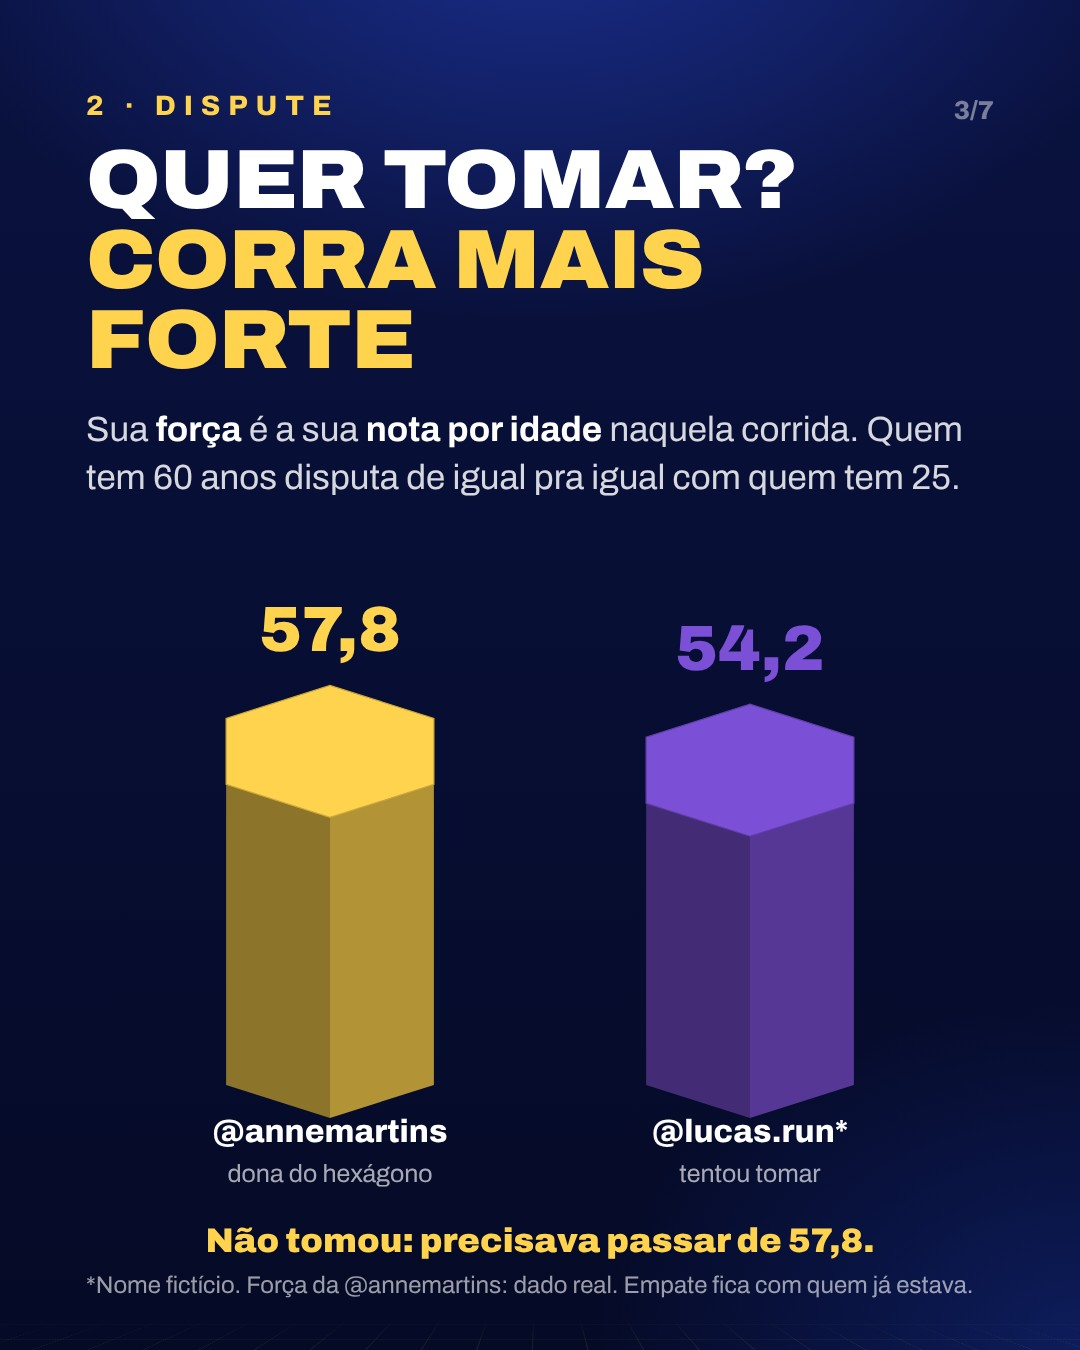
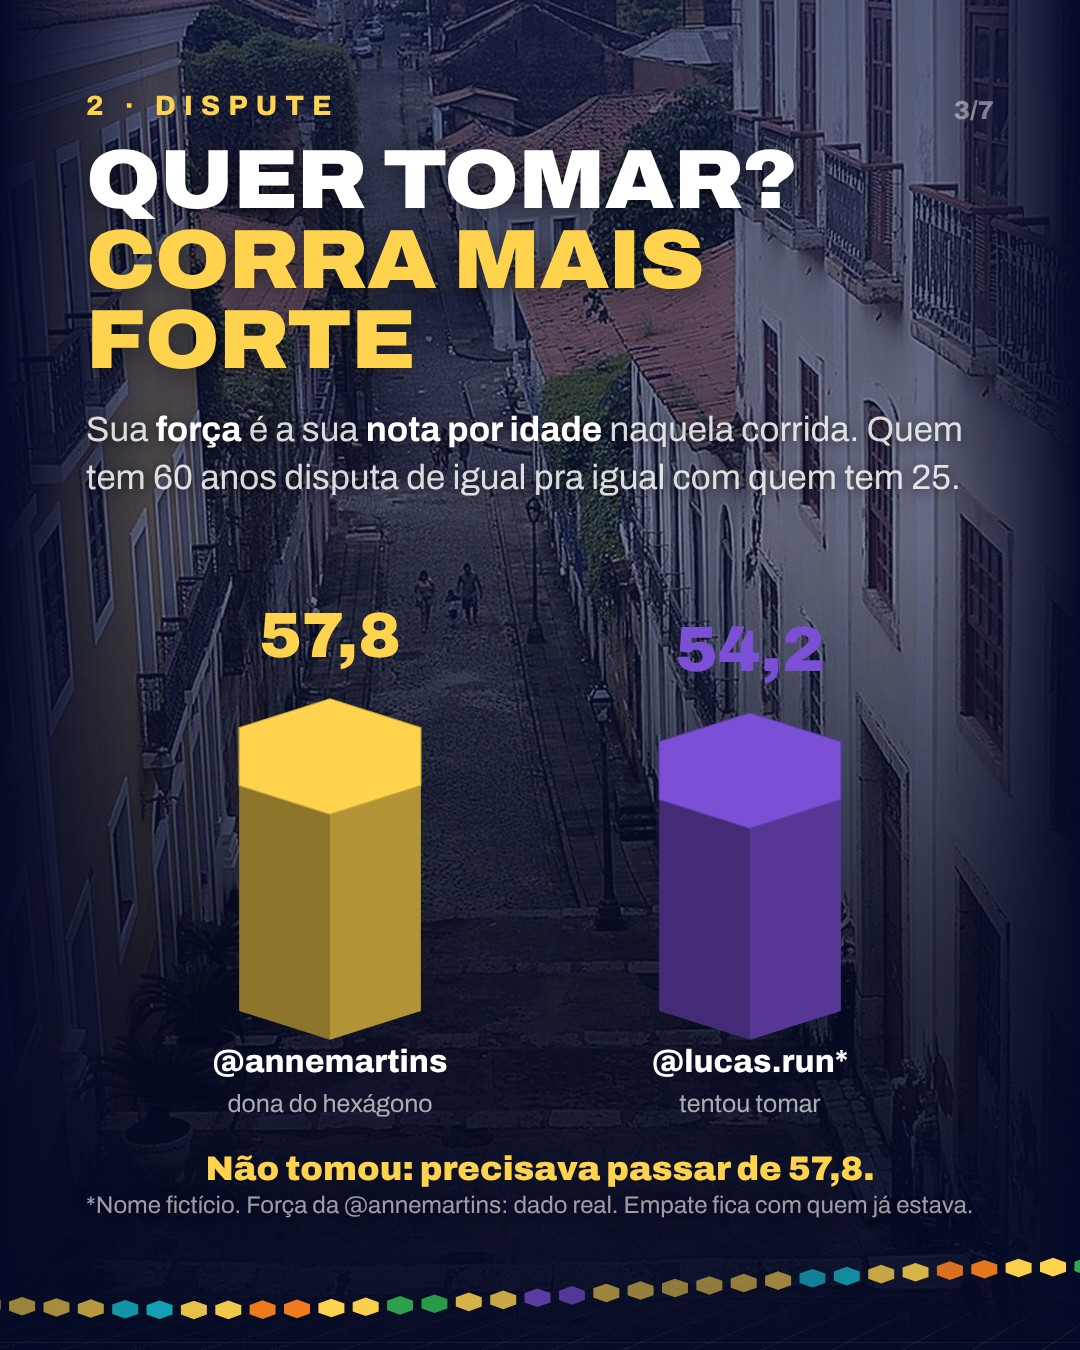
Divulgação: Domine o Maranhão como carrossel infinito, com fotos do Maranhão e Garmin/GPS do celular
Claude-Session: https://claude.ai/code/session_01KSXnhiqobHAscoCcWaqy9C

diff --git a/public/divulgacao/domine-o-maranhao/index.html b/public/divulgacao/domine-o-maranhao/index.html
@@ -19,7 +19,7 @@
 <body>
 <main>
   <h1>Carrossel: Domine o Maranhão</h1>
-  <p>Pra salvar: <b>toque e segure</b> em cada imagem e escolha <b>“Baixar imagem”</b> ou <b>“Salvar imagem”</b>. Ou toque em “Abrir” e salve de lá. Poste na ordem, do 1 ao 7.</p>
+  <p>Pra salvar: <b>toque e segure</b> em cada imagem e escolha <b>“Baixar imagem”</b> ou <b>“Salvar imagem”</b>. Ou toque em “Abrir” e salve de lá. Poste na ordem, do 1 ao 7. É um carrossel infinito: a trilha de hexágonos passa de um slide pro outro e o último emenda no primeiro.</p>
   <figure><figcaption>Slide 1</figcaption><img src="slide-1.jpg" alt="Slide 1"><a href="slide-1.jpg" download>Abrir / baixar</a></figure>
   <figure><figcaption>Slide 2</figcaption><img src="slide-2.jpg" alt="Slide 2"><a href="slide-2.jpg" download>Abrir / baixar</a></figure>
   <figure><figcaption>Slide 3</figcaption><img src="slide-3.jpg" alt="Slide 3"><a href="slide-3.jpg" download>Abrir / baixar</a></figure>
